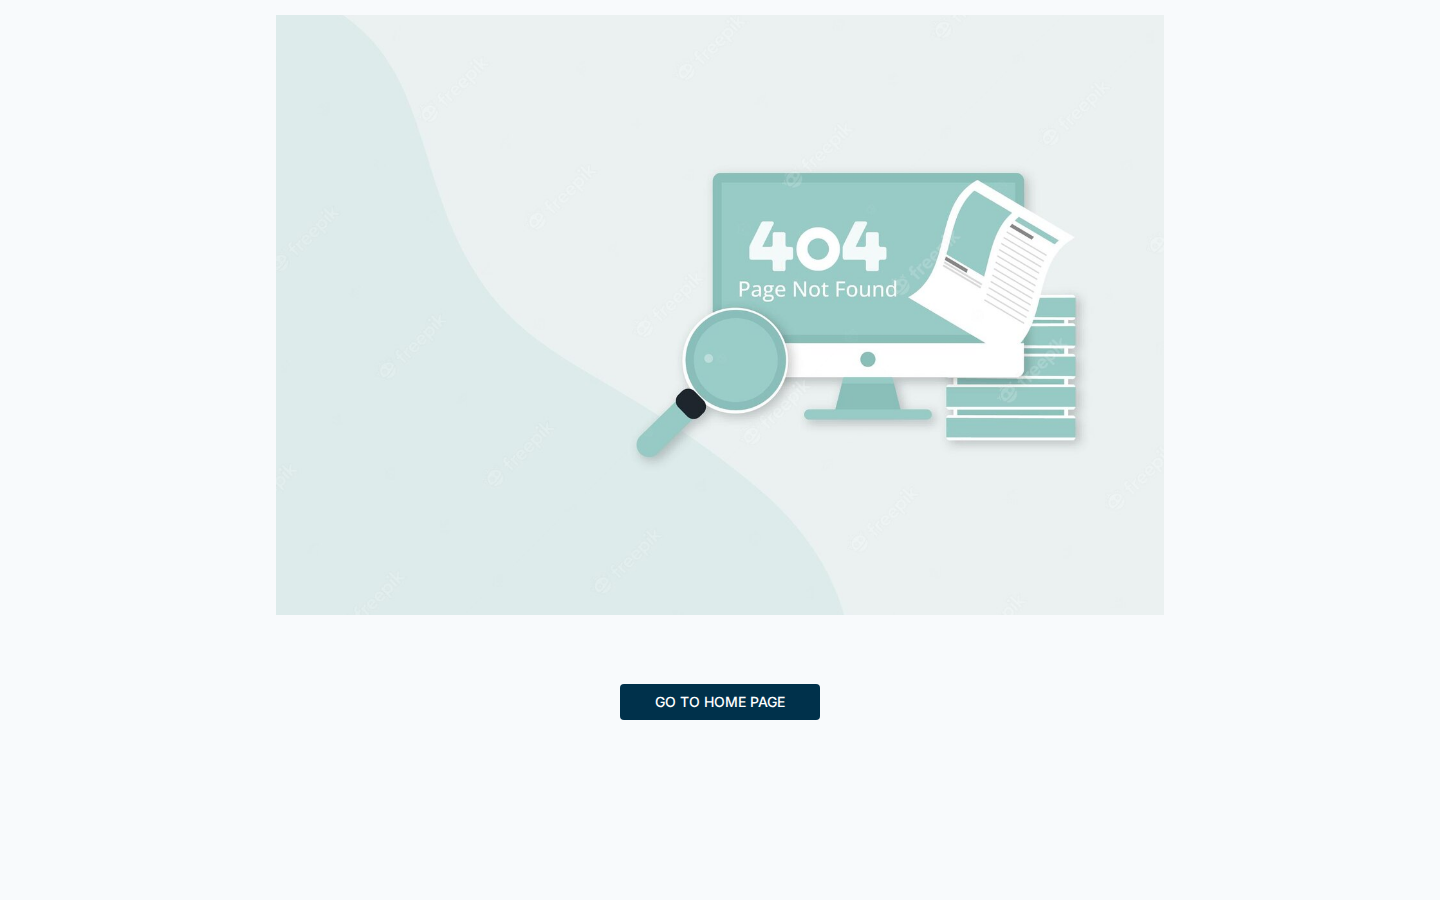
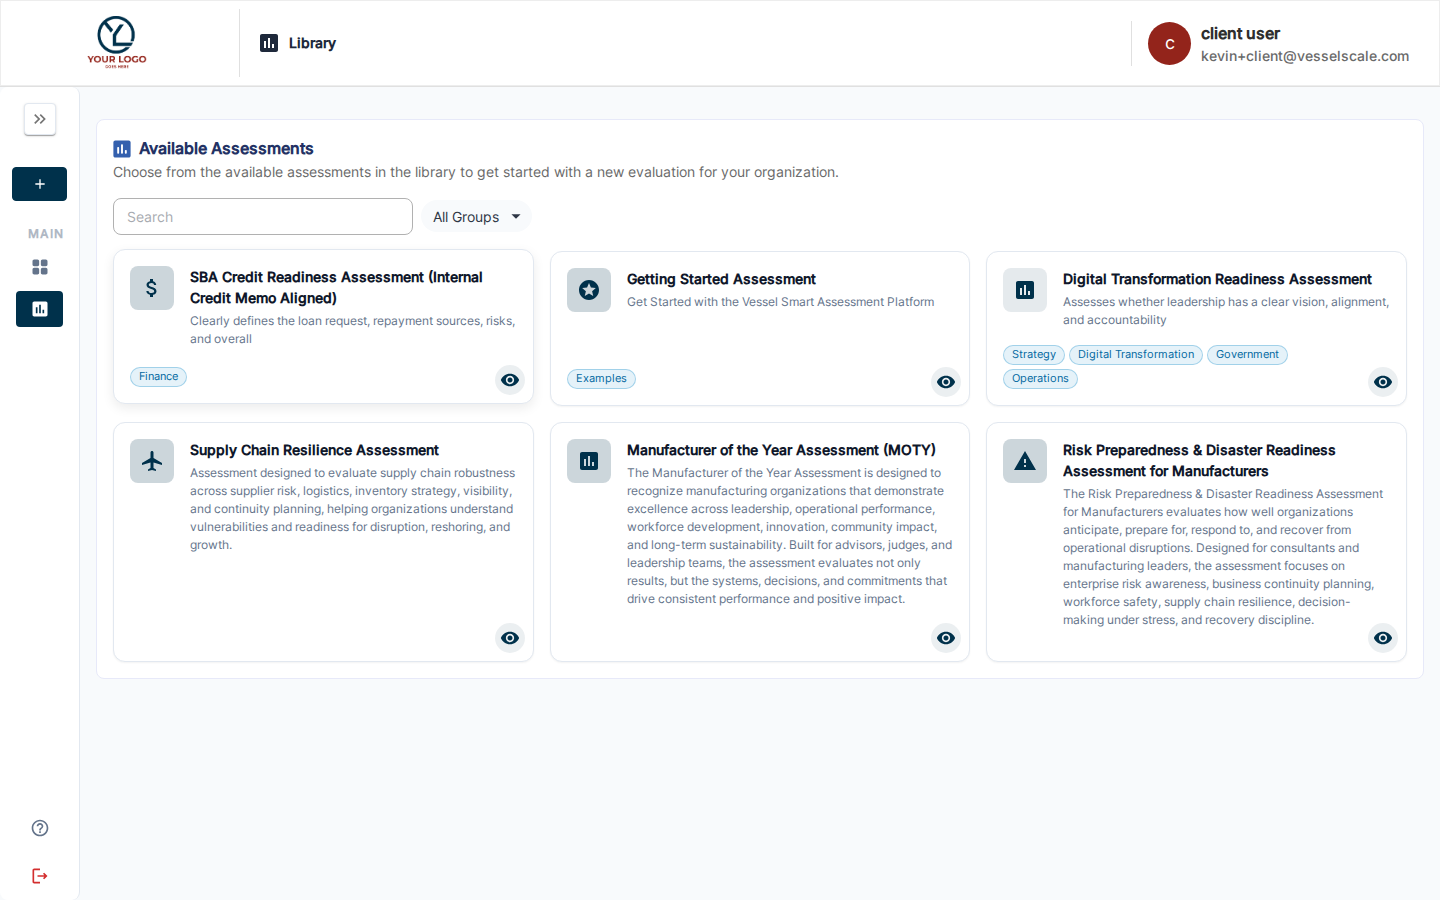
Refactor code structure for improved readability and maintainability

diff --git a/scripts/take_screenshots.py b/scripts/take_screenshots.py
@@ -1674,71 +1674,82 @@ async def section_library_editor_published(page):
 
 async def section_client_portal(page):
     """
-    Screenshots captured as a CLIENT user from CLIENT_BASE_URL (localhost dev).
-    TODO: re-run against demo.schema-qa once a stable QA client user exists.
+    Screenshots captured as a CLIENT user from CLIENT_BASE_URL.
+    Uses the actual client assessment endpoints: /dashboard and /client-assessments
     """
     print("\n[client-portal] switching to client user auth")
     await setup_client_auth(page, page.context)
     await page.wait_for_timeout(1000)
 
-    # ── Portal overview ───────────────────────────────────────────────────────
-    print("[client-portal] navigating to client portal")
-    await client_goto(page, "/client-portal", wait_ms=4000, wait_until="domcontentloaded")
+    # ── Portal overview (dashboard) ────────────────────────────────────────────
+    print("[client-portal] navigating to client dashboard")
+    await client_goto(page, "/dashboard", wait_ms=4000, wait_until="domcontentloaded")
     await save(page, "client-portal", "cp-overview")
 
-    # ── Your Assessments tab (default) ────────────────────────────────────────
-    print("[client-portal] Your Assessments tab")
-    await try_click(page, "[role='tab']:has-text('Your Assessments')", timeout=4000)
-    await page.wait_for_timeout(1500)
+    # ── Your Assessments / Available Assessments ──────────────────────────────
+    print("[client-portal] navigating to client assessments")
+    await client_goto(page, "/client-assessments", wait_ms=6000, wait_until="domcontentloaded")
+    await page.wait_for_timeout(2000)  # Extra wait for content to fully render
     await save(page, "client-portal", "cp-your-assessments")
 
-    # ── All Available Assessments tab ─────────────────────────────────────────
-    print("[client-portal] All Available Assessments tab")
-    if await try_click(page, "[role='tab']:has-text('All Available Assessments')", timeout=4000):
-        await page.wait_for_timeout(2000)
-        await save(page, "client-portal", "cp-all-available-assessments")
+    # ── All Available Assessments tab ──────────────────────────────────────────
+    print("[client-portal] clicking Available Assessments tab")
+    
+    # First, wait for the tab container to exist
+    try:
+        await page.wait_for_selector("[role='tablist'], .MuiTabs-root", timeout=5000)
+    except:
+        pass
+    
+    # Try to find and click a button that contains "Your Assessments" or "Available"
+    try:
+        your_assessments_btn = page.locator("button:has-text('Your Assessments')")
+        if await your_assessments_btn.count() > 0:
+            # Click the next button after this one
+            buttons = page.locator("button")
+            button_list = await buttons.all()
+            for i, btn in enumerate(button_list):
+                text = await btn.text_content()
+                if text and "Your Assessments" in text and i + 1 < len(button_list):
+                    await button_list[i + 1].click()
+                    break
+            else:
+                # Fallback: try to find by partial text match
+                available_btn = page.locator("button:has-text('Available')")
+                if await available_btn.count() > 0:
+                    await available_btn.click()
+    except Exception as e:
+        pass
+    
+    await page.wait_for_timeout(2000)
+    await save(page, "client-portal", "cp-all-available-assessments")
 
-        # ── Assessment detail modal (client — shows Create button) ────────────
-        print("[client-portal] clicking first assessment card")
-        first_card = page.locator(".MuiCard-root, [class*='card'], [class*='Card']").first
-        if await first_card.count() > 0:
-            await first_card.click(timeout=4000)
-            await page.wait_for_timeout(1500)
-            await save(page, "client-portal", "cp-assessment-detail-modal-client")
-            # Close modal
-            await page.keyboard.press("Escape")
-            await page.wait_for_timeout(500)
-        else:
-            print("    (no cards found — skipping modal screenshot)")
+    # ── Assessment detail modal (client — shows Create button) ────────────
+    print("[client-portal] clicking first assessment card")
+    first_card = page.locator(".MuiCard-root").first
+    if await first_card.count() > 0:
+        await first_card.click(timeout=4000)
+        await page.wait_for_timeout(1500)
+        await save(page, "client-portal", "cp-assessment-detail-modal-client")
+        # Close modal
+        await page.keyboard.press("Escape")
+        await page.wait_for_timeout(500)
     else:
-        print("    (All Available Assessments tab not found — skipping)")
+        print("    (no cards found — skipping modal screenshot)")
 
-    # ── Library tab ───────────────────────────────────────────────────────────
-    print("[client-portal] Library section")
-    if await try_click(page,
-        "a:has-text('Library'), [role='tab']:has-text('Library'), nav a:has-text('Library')",
-        timeout=4000,
-    ):
-        await page.wait_for_timeout(2500)
-        await save(page, "client-portal", "cp-library")
-    else:
-        print("    (Library nav not found — skipping)")
+    # ── Library ───────────────────────────────────────────────────────────────
+    print("[client-portal] navigating to Library")
+    await client_goto(page, "/library", wait_ms=3000, wait_until="domcontentloaded")
+    await save(page, "client-portal", "cp-library")
 
     # ── Industry Benchmarking ─────────────────────────────────────────────────
     print("[client-portal] Industry Benchmarking section")
-    await client_goto(page, "/client-portal", wait_ms=3000, wait_until="domcontentloaded")
-    if await try_click(page,
-        "a:has-text('Benchmarking'), [role='tab']:has-text('Benchmarking'), "
-        "button:has-text('Benchmarking'), a:has-text('Industry')",
-        timeout=4000,
-    ):
-        await page.wait_for_timeout(2500)
-        await save(page, "client-portal", "cp-industry-benchmarking")
-    else:
-        # Scroll down to find the benchmarking section if it's on the same page
-        await page.evaluate("window.scrollTo(0, document.body.scrollHeight)")
-        await page.wait_for_timeout(1000)
-        await save(page, "client-portal", "cp-industry-benchmarking")
+    await client_goto(page, "/client-assessments", wait_ms=6000, wait_until="domcontentloaded")
+    await page.wait_for_timeout(2000)  # Extra wait for content to fully render
+    # Scroll down to find benchmarking section
+    await page.evaluate("window.scrollTo(0, document.body.scrollHeight)")
+    await page.wait_for_timeout(1000)
+    await save(page, "client-portal", "cp-industry-benchmarking")
 
     print("[client-portal] done — restoring admin auth")
     await setup_auth(page, page.context)

diff --git a/docs/client-portal/index.md b/docs/client-portal/index.md
@@ -6,84 +6,89 @@ tags:
 
 # Client Portal
 
-The **Client Portal** is the main view your clients see when they log into VSAP. It shows them their assigned assessments, current status, how their scores compare to industry benchmarks, and access to the assessment library to launch new evaluations.
+Welcome to your **Client Portal** — your central hub for managing and completing assessments with Vessel Scale. Here you'll find all your assigned assessments, track your progress, view your scores, and access new evaluations your organization has made available to you.
 
-As an administrator or Account Executive, you can preview the portal exactly as a client would experience it using the **View as Client** button on any Account Details page.
-
-> **For Administrators & Account Executives**: See [Account Executive Notes](ae-notes.md) for what you see versus what clients see, and how to manage permissions and access.
+![Client Portal Overview](../assets/screenshots/client-portal/cp-overview.png)
 
 ---
 
-## Assessment Visibility & What Clients See
+## What You Can Do in the Client Portal
 
-The Client Portal displays assessments based on the **visibility and assignment** settings:
+The Client Portal gives you access to:
 
-### Assessments Clients See
-
-Clients can access:
-
-- **Assessments assigned to them** — Any assessment your team has assigned to their account, regardless of whether it's marked public or private
-- **Public assessments in the Library** — Browse and launch any public assessment your organization offers
-- **Public assessment cards in "All Available Assessments"** — Self-start new assessments from the card grid
-
-### Assessments Clients Cannot See
-
-Clients cannot see:
-
-- **Private assessments not assigned to them** — Private assessments created for other accounts remain hidden
-- **Admin-only or draft assessments** — Drafts and admin-only settings are not visible in the client view
-
-### What Admins & AEs See
-
-When you use **View as Client** to preview the portal:
-
-- You see everything the client would see (assigned and public assessments)
-- The **yellow preview banner** confirms you're viewing as the client
-- You can edit or manage assessments normally by returning to Account Details
-- You can verify clients have the correct access before reaching out to them
+- **Your Assessments** — View all assessments assigned to you, track their status, and continue working on in-progress evaluations
+- **All Available Assessments** — Browse every assessment type your organization offers and start new ones on your own without waiting for an assignment
+- **Assessment Library** — Search and discover assessments by name, description, or category
+- **Industry Benchmarking** — See how your organization's resilience score compares to industry averages in your sector
+- **Analysis & Results** — Review completed assessments, view your scores, and read analysis notes from your Account Executive
 
 ---
 
-## Accessing the Client Portal
+## Portal Layout
 
-### Previewing as an administrator
+The Client Portal is organized into three main sections:
 
-To see what a specific client sees in their portal:
+**[Your Assessments](assessments-table.md)** — A table showing all assessments assigned to or created by you:
+- View status (Draft, In Progress, Results Review, Closed)
+- Take assessments or continue where you left off
+- View completed results
+- Copy links to share with colleagues
 
-1. Navigate to the **Account Details** page for that client
-2. Click **View as Client** in the action bar
+**[All Available Assessments](all-available-assessments.md)** — A card grid showing every assessment your organization offers:
+- Browse and explore available assessment types
+- Create new assessments directly from the card grid
+- No need to wait for your Account Executive to assign one
 
-![View as Client button](../assets/screenshots/client-portal/cp-account-action-bar.png)
+**[Industry Benchmarking](industry-benchmarking.md)** — See your performance compared to industry standards:
+- Gauge chart showing your resilience score
+- Color-coded zones (At Risk, Could Improve, Optimal)
+- Industry average comparison
 
-This opens the portal in **Preview Mode** — you see exactly what the client sees, with a yellow banner at the top confirming you are in preview mode and not the client view itself.
-
-![Preview Mode banner](../assets/screenshots/client-portal/cp-preview-banner.png)
-
-Click **Return to Account** at any time to go back to the Account Details page.
+**[Assessment Library](library.md)** — Searchable collection of all assessments:
+- Find assessments by name, description, or category
+- Launch new evaluations instantly
+- Discover what's available to you
 
 ---
 
-## What the portal contains
+## Assessment Status & What's Next
 
-The Client Portal is headed with the account name followed by "Assessments Overview." It contains three main sections:
+When you access an assessment, here's what you'll see:
 
-- **[Library](library.md)** — browse and launch new assessments from the organization's assessment library
-- **Available Assessments** — a two-tab section:
-  - **[Your Assessments](assessments-table.md)** — all active and completed assessments assigned to or created by your organization
-  - **[All Available Assessments](all-available-assessments.md)** — a card grid of every public assessment type offered; client users can create a new assessment directly from here
-- **[Industry Benchmarking](industry-benchmarking.md)** — see how your organization's resilience score compares to industry averages
+| Status | What it means | What you do |
+|--------|---------------|-----------|
+| **Draft** | Assessment created but not yet finalized | Continue editing your responses; they save automatically |
+| **In Progress** | Assessment is live and responses are being collected | Submit your responses; others may be filling theirs in |
+| **Results Review** | All responses are in; being analyzed | Your Account Executive is reviewing and preparing analysis |
+| **Closed** | Assessment is complete and final | View your final scores, analysis, and recommendations |
 
-![Client Portal full view](../assets/screenshots/client-portal/cp-overview.png)
+> **💡 Tip:** Your work saves automatically as you complete assessments. You can close and return to in-progress assessments anytime without losing your progress.
+
+---
+
+## Getting Started
+
+1. Log into VSAP and navigate to the **Client Portal**
+2. Check **[Your Assessments](assessments-table.md)** for any assessments waiting for you
+3. If none are ready, browse **[All Available Assessments](all-available-assessments.md)** to self-start a new evaluation
+4. Once assessments are completed, view results and benchmarking data to understand your performance
+
+---
+
+## Administrators & Account Executives
+
+> **For those managing client access:** See [Account Executive Notes](ae-notes.md) to understand what clients see, how to configure visibility, and how to manage permissions.
+
+To preview the client portal experience for a specific account, visit the **Account Details** page and click **View as Client**. This shows you exactly what that client sees when they log in.
 
 ---
 
 ## Related
 
-- [Library](library.md) — browse and launch assessments
-- [Your Assessments](assessments-table.md) — table columns, statuses, and action buttons
-- [All Available Assessments](all-available-assessments.md) — browse assessment types and self-create new assessments
-- [Industry Benchmarking](industry-benchmarking.md) — gauge chart and score zones
-- [Account Executive Notes](ae-notes.md) — differences between client and AE views
-- [Account Details](../accounts/details.md) — where to find the View as Client button
-- [Web Reports](../settings/web-reports.md) — control which reports appear in the portal
-- [Assessment Visibility](../assessments/details.md#assessment-visibility--privacy) — public vs private assessments
+- [Your Assessments](assessments-table.md) — Track your assessments and take action
+- [All Available Assessments](all-available-assessments.md) — Self-create new assessments
+- [Assessment Library](library.md) — Browse and search assessments
+- [Industry Benchmarking](industry-benchmarking.md) — Compare your performance to industry peers
+- [Account Executive Notes](ae-notes.md) — For admins: managing client access and visibility
+- [Assessment Visibility](../assessments/details.md#assessment-visibility--privacy) — How your Account Executive controls what you see
+
